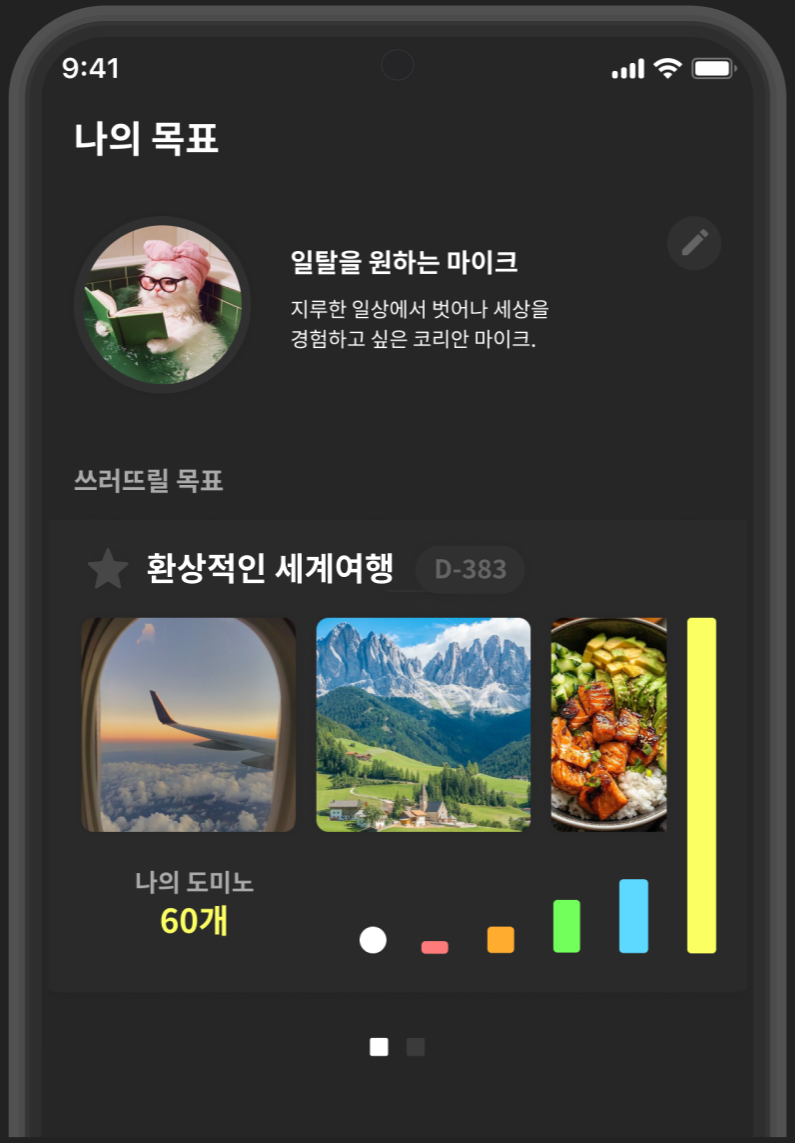
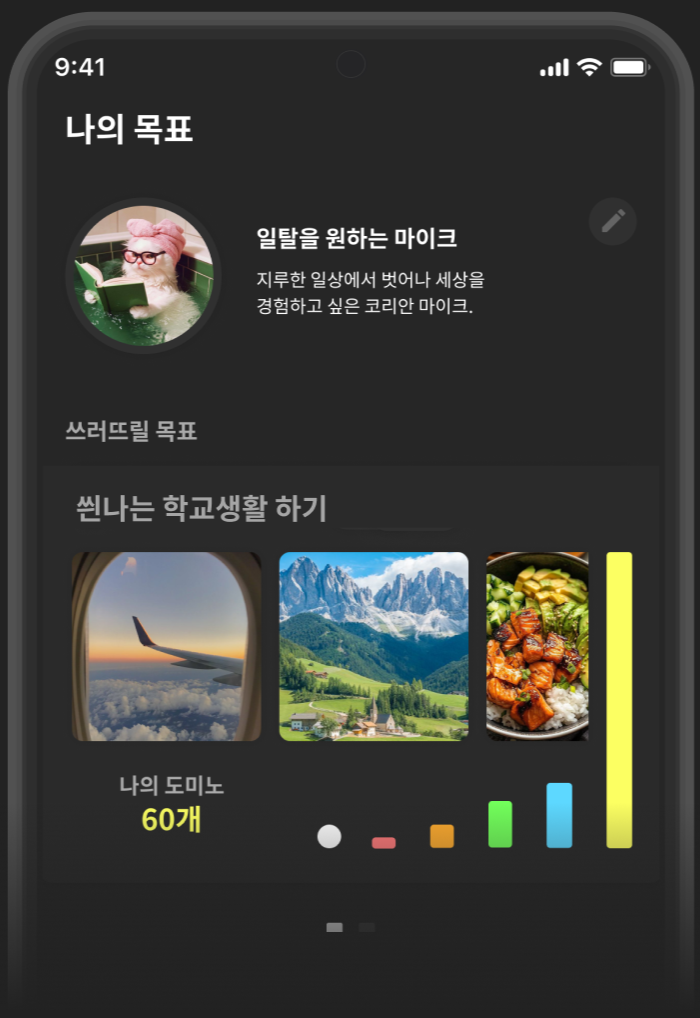
튜토리얼 수정

diff --git a/lib/screens/ST/settings_main.dart b/lib/screens/ST/settings_main.dart
@@ -231,7 +231,6 @@ class _SettingsMainState extends State<SettingsMain> {
   }
 
   Widget _buildCombinedSwitchItem() {
-
     return Container(
       margin: const EdgeInsets.fromLTRB(0, 0, 0, 14),
       padding: const EdgeInsets.symmetric(vertical: 15, horizontal: 24),
@@ -385,11 +384,10 @@ class _SettingsMainState extends State<SettingsMain> {
                                           MainAxisAlignment.spaceBetween,
                                       children: [
                                         NewButton(Colors.black, Colors.white,
-                                                '설정으로 이동', () {
+                                            '설정으로 이동', () {
                                           Navigator.of(context).pop();
                                           openAppSettings();
-                                        })
-                                            .newButton(),
+                                        }).newButton(),
                                       ],
                                     ),
                                     SizedBox(
@@ -467,7 +465,7 @@ class _SettingsMainState extends State<SettingsMain> {
                           fontSize: 15,
                           color: Colors.white,
                           fontWeight: FontWeight.w600)),
-                  Text('1.0.12  ',
+                  Text('1.0.14  ',
                       style: TextStyle(
                           fontSize: 15,
                           color: Colors.grey,
@@ -701,8 +699,7 @@ void showServiceRulePopup(BuildContext context, double currentWidth) {
                     children: [
                       NewButton(Colors.black, Colors.white, '닫기', () {
                         Navigator.pop(context);
-                      })
-                          .newButton(),
+                      }).newButton(),
                     ],
                   )
                 ],
@@ -831,8 +828,7 @@ void showPersonalInfoPopup(BuildContext context, double currentWidth) {
                     children: [
                       NewButton(Colors.black, Colors.white, '닫기', () {
                         Navigator.pop(context);
-                      })
-                          .newButton(),
+                      }).newButton(),
                     ],
                   )
                 ],

diff --git a/lib/screens/Tutorial/tutorial5_page.dart b/lib/screens/Tutorial/tutorial5_page.dart
@@ -36,34 +36,31 @@ class Tutorial5State extends State<Tutorial5> {
 
                     //질문
                     TutorialQuestion(
-                            "", '뿌듯한 학교생활하기', "를 위한", '달성해야 할 제2목표는?', 'red')
+                            "", '씐나는 학교생활하기', "를 위한", '달성해야 할 제2목표는?', 'red')
                         .tutorialQuestion(),
-                        SizedBox(height: 10), 
+                    SizedBox(height: 10),
                   ],
                 ),
               ),
               //선택지
-              Transform.translate(
-                offset: const Offset(-80, 0),
-                child: MandalartOption(
-                  middleText: '뿌듯한\n학교생활하기',
-                  texts: [
-                    '',
-                    '침대 밖으로\n안 나오기',
-                    '대학교\n최강인싸되기',
-                    '',
-                    '',
-                    '도서관 가서\n낮잠 자기',
-                    '',
-                    '삭발하기',
-                    'F학점\n받아보기'
-                  ],
-                  color: 'red',
-                  onItemSelected: (index) {
-                    selectedIndex = index;
-                  },
-                  currentWidth: currentWidth,
-                ),
+              MandalartOption(
+                middleText: '씐나는\n학교생활하기',
+                texts: [
+                  '',
+                  '침대 밖으로\n안 나오기',
+                  '대학교\n최강인싸되기',
+                  'F학점\n받아보기',
+                  '',
+                  '도서관 가서\n낮잠 자기',
+                  '',
+                  '삭발하기',
+                  ''
+                ],
+                color: 'red',
+                onItemSelected: (index) {
+                  selectedIndex = index;
+                },
+                currentWidth: currentWidth,
               ),
             ],
           ),

diff --git a/lib/screens/Tutorial/tutorial6_page.dart b/lib/screens/Tutorial/tutorial6_page.dart
@@ -40,33 +40,29 @@ class Tutorial6State extends State<Tutorial6> {
                     TutorialQuestion(
                             "", '대학교 최강인싸되기', "를 위한", '달성해야 할 제3목표는?', 'green')
                         .tutorialQuestion(),
-                        SizedBox(height: 10), 
+                    SizedBox(height: 10),
                   ],
                 ),
               ),
               //선택지
-              Transform.translate(
-                offset: Offset(-80, 0),
-                //top: currentWidth < 600 ? 180 : 190,
-                child: MandalartOption(
-                  middleText: '대학교\n최강인싸되기',
-                  texts: [
-                    '',
-                    '혼밥 100회\n도전하기',
-                    '동아리\n들어가기',
-                    '',
-                    '',
-                    '비둘기와\n친해지기',
-                    '',
-                    '인성파탄자 되기',
-                    '침묵 챌린지\n30일 하기'
-                  ],
-                  color: 'green',
-                  onItemSelected: (index) {
-                    selectedIndex = index;
-                  },
-                  currentWidth: currentWidth,
-                ),
+              MandalartOption(
+                middleText: '대학교\n최강인싸되기',
+                texts: [
+                  '',
+                  '혼밥 100회\n도전하기',
+                  '동아리\n들어가기',
+                  '',
+                  '',
+                  '비둘기와\n친해지기',
+                  '침묵 챌린지\n30일 하기',
+                  '인성파탄자 되기',
+                  ''
+                ],
+                color: 'green',
+                onItemSelected: (index) {
+                  selectedIndex = index;
+                },
+                currentWidth: currentWidth,
               ),
             ],
           ),

diff --git a/lib/screens/Tutorial/tutorial4_page.dart b/lib/screens/Tutorial/tutorial4_page.dart
@@ -17,7 +17,6 @@ class Tutorial4State extends State<Tutorial4> {
   Widget build(BuildContext context) {
     return Scaffold(
         backgroundColor: backgroundColor,
-
         body: SingleChildScrollView(
           child: Stack(
             children: [
@@ -30,12 +29,11 @@ class Tutorial4State extends State<Tutorial4> {
                       icon: 'assets/img/tt_menu_icon2.png',
                       title: '도미노 플랜',
                       description1: '이제 두번째 단계야!',
-                      description2: '뿌듯한 학교생활 하기',
+                      description2: '씐나는 학교생활 하기',
                       description3: '계획을 세워보자!',
                       imageUrl: 'assets/img/menu_screen2.png',
                       color: 'red',
                     )
-
                   ],
                 ),
               ),

diff --git a/lib/apis/services/lr_services.dart b/lib/apis/services/lr_services.dart
@@ -33,6 +33,8 @@ class LoginService {
         },
         body: body,
       );
+      print('🔢 응답 status code: ${response.statusCode}');
+      print('📃 응답 body: ${response.body}');
 
       if (response.statusCode >= 200 && response.statusCode < 300) {
         final responseData = jsonDecode(response.body);
@@ -144,11 +146,13 @@ class RegistrationService {
           );
         }
       } else {
+        print('❌ 회원가입 실패 - 상태코드 ${response.statusCode}');
         if (context.mounted) {
           TutorialMessage("아이디가 중복되었습니다").tutorialMessage(context);
         }
       }
     } catch (e) {
+      print('❗ 예외 발생: $e');
       if (context.mounted) {}
     }
   }

diff --git a/lib/style/style_tutorial.dart b/lib/style/style_tutorial.dart
@@ -594,8 +594,6 @@ class _ImageOptionState extends State<ImageOption> {
   }
 }
 
-
-
 //플랜 완성 비주얼 (전체)
 class PlanVisual {
   final double currentWidth;
@@ -618,7 +616,7 @@ class PlanVisual {
         itemCount: 42,
         itemBuilder: (context, index) {
           if (index == 13) {
-            return PlanVisualBox1('뿌듯한\n학교생활', mainRed).planVisualBox1();
+            return PlanVisualBox1('씐나는\n학교생활', mainRed).planVisualBox1();
           } else if (index == 20 || index == 34) {
             return PlanVisualBox1('대학교\n최강인싸', mainGreen).planVisualBox1();
           } else if (index == 27) {
